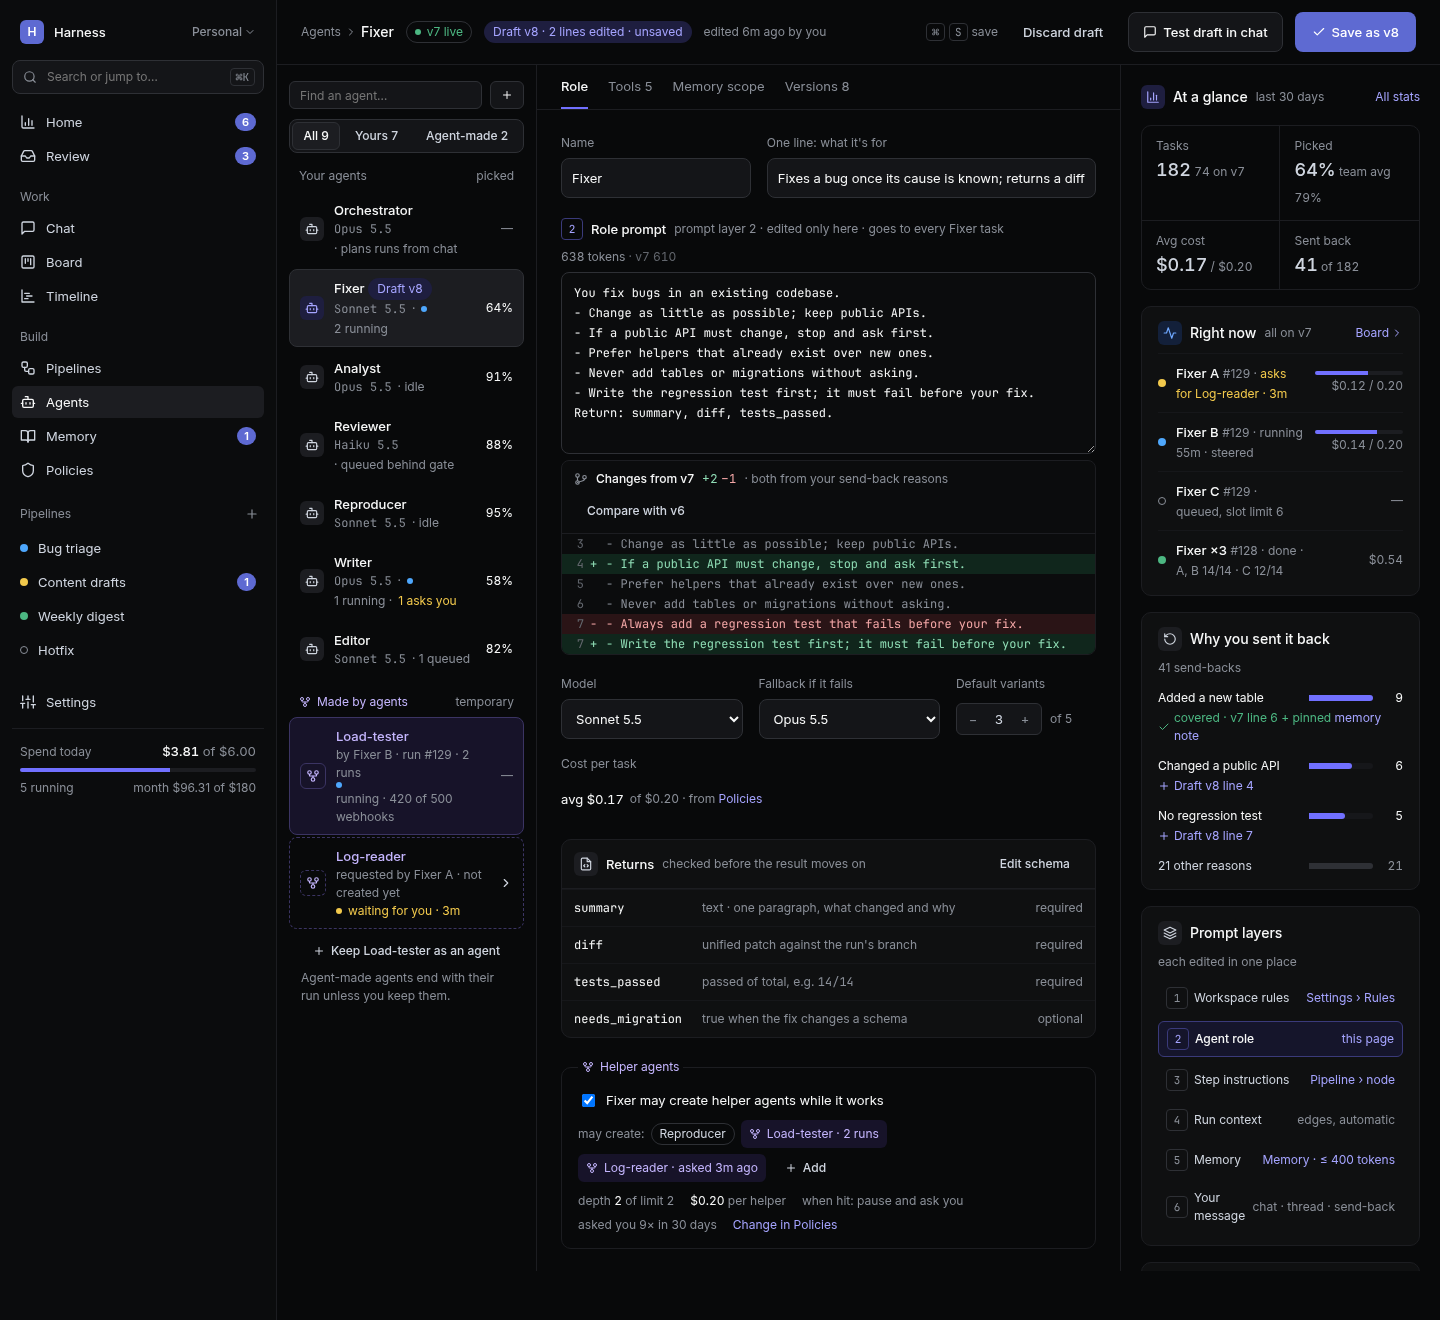
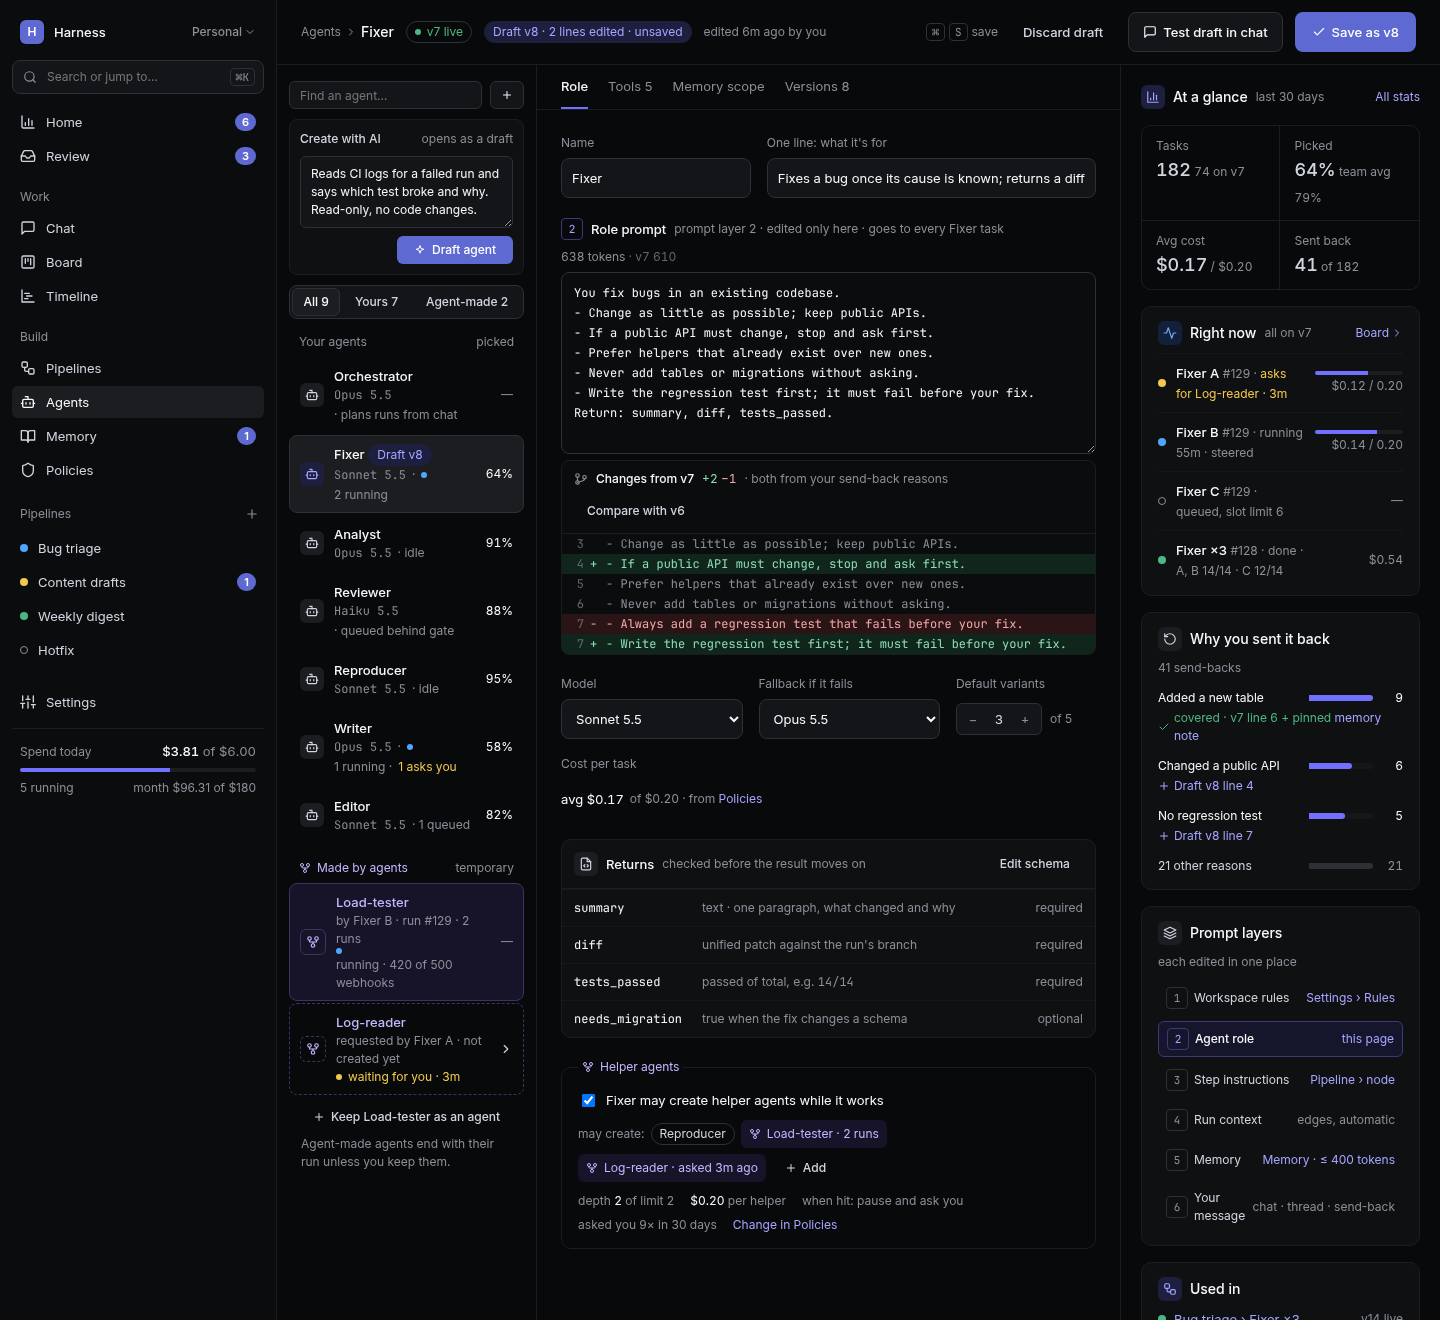
Designer: I added a "Create with AI" box to the Agents screen, near the top of the
Run #9 · add ability to create agents with ai

Changed region(s): [[0.1875, 0.0932, 0.375, 0.8697], [0.7812, 0.9629, 0.9062, 1.0], [0.9375, 0.9939, 0.9688, 1.0]]

diff --git a/design/screens/agents.html b/design/screens/agents.html
@@ -508,6 +508,20 @@ tbody tr:hover{background:var(--surface-raised)}
 ></svg
 ></button
 ></div
+><form aria-label="Create an agent with AI" class="gr-card" style="padding: 10px; gap: 8px; margin-bottom: 8px; border-radius: var(--radius-lg);"
+><div style="display: flex; align-items: baseline; gap: 8px;"
+><label for="ag-ai" class="lbl" style="flex: 1 1 0%; color: var(--text-secondary); font-weight: 500;">Create with AI</label
+><span class="lbl">opens as a draft</span
+></div
+><textarea id="ag-ai" rows="3" class="field" placeholder="Describe the agent: what it does, what it may touch, what it returns…" style="height: auto; padding: 8px 10px; resize: vertical; font-size: 12px; line-height: 18px; border-radius: var(--radius-md);">Reads CI logs for a failed run and says which test broke and why. Read-only, no code changes.</textarea
+><div style="display: flex; justify-content: flex-end;"
+><button type="submit" class="gr-btn gr-btn--primary gr-btn--sm"
+><svg width="12" height="12" viewBox="0 0 24 24" fill="none" stroke="currentColor" stroke-width="2" stroke-linecap="round" stroke-linejoin="round" aria-hidden="true" class="gr-icon"
+><path d="M12 3l1.9 5.8L20 10.7l-6.1 1.9L12 18.5l-1.9-5.9L4 10.7l6.1-1.9z"
+></path
+></svg>Draft agent</button
+></div
+></form
 ><div role="group" aria-label="Show" style="display: flex; padding: 2px; gap: 2px; margin-bottom: 8px; border: 1px solid var(--line-strong); border-radius: var(--radius-lg); background: var(--surface-raised);"
 ><button type="button" class="gr-btn gr-btn--sm gr-btn--secondary" aria-pressed="true" style="flex: 1 1 0%; background: var(--surface-hover);">All 9</button
 ><button type="button" class="gr-btn gr-btn--sm gr-btn--ghost" aria-pressed="false" style="flex: 1 1 0%;">Yours 7</button
